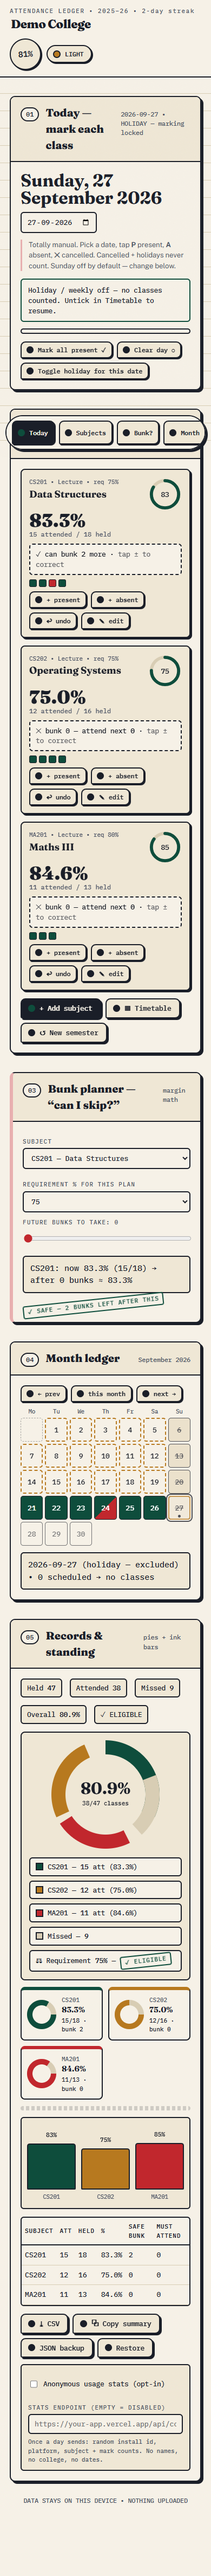
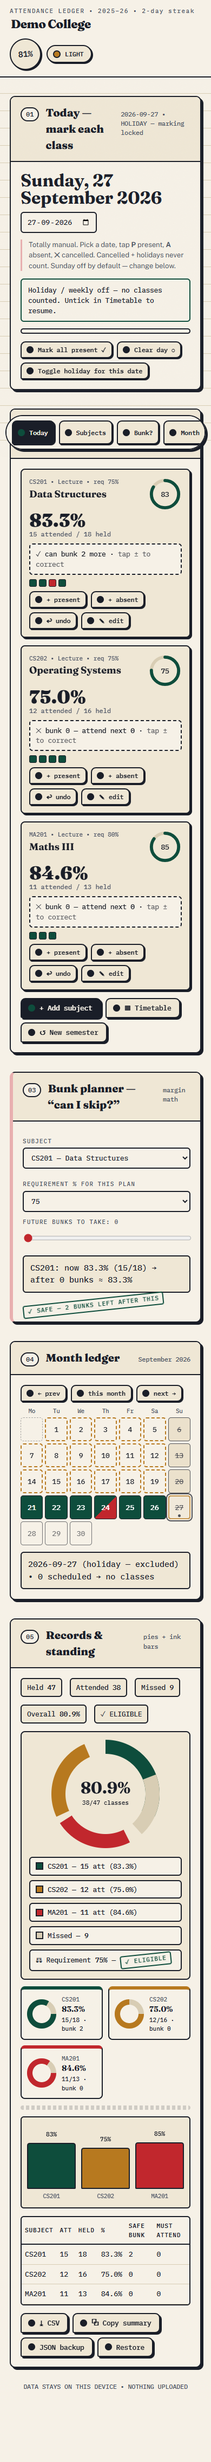
Remove admin system entirely; mono black-white-grey dark theme

Changed region(s): [[0.0308, 0.0, 0.9846, 0.9688], [0.0308, 0.5, 0.0615, 0.5625], [0.8923, 0.25, 0.9231, 0.2812]]

diff --git a/index.html b/index.html
@@ -20,10 +20,10 @@
   --radius:10px;
 }
 [data-theme="dark"]{
-  --paper:#0E1015; --paper-2:#151923; --paper-3:#1D2331;
-  --ink:#ECE5D3; --ink-soft:#A7AEC4; --rule:#2A2F3D;
-  --accent:#5FBF8F; --accent-ink:#08130E;
-  --stamp-red:#E08080; --amber:#D9A93B; --margin-red:#6B3A3A;
+  --paper:#0B0C0E; --paper-2:#141619; --paper-3:#1E2126;
+  --ink:#F2F0EA; --ink-soft:#A9ADB5; --rule:#262A31;
+  --accent:#EDE9DE; --accent-ink:#101216;
+  --stamp-red:#7C828B; --amber:#C2C6CD; --margin-red:#3A3D43;
   --shadow:none;
   --shadow-sm:none;
 }
@@ -375,14 +375,6 @@ table.ledger td{border-bottom:1px solid var(--rule); padding:8px 6px; font-famil
         <button class="btn" id="restoreBtn">Restore</button>
         <input type="file" id="restoreFile" accept="application/json" hidden>
       </div>
-      <div class="proj" style="margin-top:12px">
-        <label class="mono" style="display:flex;gap:8px;align-items:center;font-size:12.5px;cursor:pointer">
-          <input type="checkbox" id="teleOn" style="width:auto;min-height:44px"> Anonymous usage stats (opt-in)
-        </label>
-        <label class="lbl" for="teleUrl">Stats endpoint (empty = disabled)</label>
-        <input type="text" id="teleUrl" placeholder="https://your-app.vercel.app/api/collect" inputmode="url" autocomplete="off">
-        <div class="mono" style="font-size:11px;color:var(--ink-soft);margin-top:6px">Once a day sends: random install id, platform, subject + mark counts. No names, no college, no dates.</div>
-      </div>
     </div>
   </section>
 
@@ -452,7 +444,7 @@ const parseISO=s=>{const[a,b,c]=String(s||"").split("-").map(Number);return new 
 const fmtD=d=>d.toLocaleDateString("en-IN",{weekday:"long",day:"numeric",month:"long",year:"numeric"});
 const esc=s=>String(s==null?"":s).replace(/[&<>"']/g,c=>({"&":"&amp;","<":"&lt;",">":"&gt;",'"':"&quot;","'":"&#39;"}[c]));
 const csvCell=v=>{let s=String(v==null?"":v);if(/^\s*[=+\-@]/.test(s))s="'"+s;return /[",\n\r]/.test(s)?'"'+s.replace(/"/g,'""')+'"':s};
-function defState(){return{college:"My College",target:75,theme:"light",subjects:[],timetable:{MON:[],TUE:[],WED:[],THU:[],FRI:[],SAT:[],SUN:[]},off:[0],holidays:[],logs:{},undoStack:[],telemetry:{on:false,url:"",id:uid(),last:""},calCursor:iso(new Date()),selectedDate:iso(new Date())}}
+function defState(){return{college:"My College",target:75,theme:"light",subjects:[],timetable:{MON:[],TUE:[],WED:[],THU:[],FRI:[],SAT:[],SUN:[]},off:[0],holidays:[],logs:{},undoStack:[],calCursor:iso(new Date()),selectedDate:iso(new Date())}}
 let S;
 const hadStored=(()=>{try{return !!localStorage.getItem(KEY)}catch{return true}})();
 try{S=JSON.parse(localStorage.getItem(KEY))||defState()}catch{S=defState()}
@@ -515,10 +507,6 @@ function validateState(){
   });
   if(!Array.isArray(S.undoStack)) S.undoStack=[];
   S.undoStack=S.undoStack.filter(e=>e&&typeof e==="object"&&subj(e.sub)&&["p","a"].includes(e.op)).slice(-200);
-  if(!S.telemetry||typeof S.telemetry!=="object") S.telemetry={on:false,url:"",id:uid(),last:""};
-  S.telemetry.on=!!S.telemetry.on;
-  if(typeof S.telemetry.url!=="string") S.telemetry.url="";
-  if(typeof S.telemetry.id!=="string"||!/^[A-Za-z0-9_-]{1,64}$/.test(S.telemetry.id)) S.telemetry.id=uid();
   if(typeof S.college!=="string") S.college="My College";
   const dflt=iso(new Date());
   if(!/^\d{4}-\d{2}-\d{2}$/.test(S.calCursor||"")) S.calCursor=dflt;
@@ -762,7 +750,9 @@ function showDay(ds){
 }
 /* ---------- STATS ---------- */
 const PALETTE=["#0E4D3C","#B7791F","#C1272D","#2F5D9A","#7A4E9E","#0E7C7B","#A85B2A","#5B6B7A"];
-const colorFor=i=>PALETTE[i%PALETTE.length];
+const MONO=["#EDE9DE","#C2C6CD","#9BA0A8","#8F959E","#7C828B","#5F646C","#484D55","#34383F"];
+const isDark=()=>document.documentElement.dataset.theme==="dark";
+const colorFor=i=>(isDark()?MONO:PALETTE)[i%8];
 function donutSVG(pct,size,thick,color){
   const r=(size-thick)/2, C=2*Math.PI*r;
   const off=C*(1-Math.min(100,Math.max(0,pct))/100);
@@ -811,26 +801,10 @@ function renderStats(){
     return `<tr><td>${esc(s.code)}</td><td>${st.pre}</td><td>${st.tot}</td><td>${st.pct.toFixed(1)}%</td><td>${st.safe}</td><td>${fmtNeed(st.need)}</td></tr>`}).join("");
 }
 function renderAll(){
-  // NOTE: callers save() before renderAll(); no save here (was double-stringifying ~600KB per tap)
   document.documentElement.dataset.theme=S.theme||"light";
   const tb=$("themeBtn"); if(tb) tb.textContent=(S.theme==="dark"?"DARK":"LIGHT");
-  renderToday();renderSubjects();renderPlanner();renderCal();renderStats();
+  save();renderToday();renderSubjects();renderPlanner();renderCal();renderStats();
   $("collegeInput").value=S.college||"My College";
-  if($("teleOn")) $("teleOn").checked=!!(S.telemetry&&S.telemetry.on);
-  if($("teleUrl")) $("teleUrl").value=(S.telemetry&&S.telemetry.url)||"";
-  ping();
-}
-function ping(){
-  // opt-in anonymous heartbeat, at most once a day, never blocks UI
-  try{
-    const t=S.telemetry; if(!t||!t.on||!t.url) return;
-    const today=iso(new Date()); if(t.last===today) return;
-    t.last=today; save();
-    const ua=navigator.userAgent||"";
-    fetch(t.url,{method:"POST",headers:{"Content-Type":"application/json"},
-      body:JSON.stringify({id:t.id,platform:/Android/i.test(ua)?"android":"web",v:1,
-        subjects:S.subjects.length,marks:Object.keys(S.logs).length,theme:S.theme||"light"})}).catch(()=>{});
-  }catch(e){/* telemetry must never break the app */}
 }
 /* ---------- EVENTS ---------- */
 $("datePicker").onchange=e=>{S.selectedDate=e.target.value||iso(new Date());S.calCursor=S.selectedDate.slice(0,7)+"-01";save();renderAll()};
@@ -840,8 +814,6 @@ $("holidayBtn").onclick=()=>{const d=S.selectedDate;const ix=S.holidays.indexOf(
 $("themeBtn").onclick=()=>{S.theme=document.documentElement.dataset.theme==="dark"?"light":"dark";save();renderAll()};
 let collegeT=null;
 $("collegeInput").oninput=e=>{S.college=e.target.value;clearTimeout(collegeT);collegeT=setTimeout(save,300)};
-$("teleOn").onchange=e=>{S.telemetry.on=e.target.checked;save();ping()};
-$("teleUrl").onchange=e=>{S.telemetry.url=e.target.value.trim();save();ping()};
 $("planRange").oninput=renderPlanner;
 $("planSubject").onchange=renderPlanner;
 $("planTarget").onchange=renderPlanner;

diff --git a/README.md b/README.md
@@ -44,23 +44,6 @@ npx vercel --prod
 
 **Android:** wrap `index.html` in the WebView shell (see commit history / `MainActivity` pattern: `file:///android_asset`, DOM storage on) and `assembleDebug`.
 
-## Scale — ready for 1k–10k users
-
-- **Reads scale free:** pure static file on Vercel's CDN. 10k users × ~70KB = ~700MB transfer — far inside free limits.
-- **Writes stay on-device:** no shared database in the hot path, so concurrent users can't slow each other down. Worst case measured in headless Chrome (mobile viewport, 10,290 marks): full re-render **~157ms**, store 644KB — a real 4-year degree is <2k marks (<30ms).
-- **Attack-tested:** 31-case battery (`tools/attack.js` in the build machine) covers stored-XSS payloads, malicious restores (`null`, prototype pollution, 20k-log dumps), CSV formula injection, fake dates, future-mark inflation — all passing against the real code.
-
-## Admin stats (opt-in)
-
-The app is offline-first, so global stats need a tiny backend. Included, zero new dependencies:
-
-1. Create a free [Supabase](https://supabase.com) project → SQL editor → run `schema.sql`.
-2. Vercel dashboard → this project → Environment Variables: `SUPABASE_URL`, `SUPABASE_SERVICE_KEY`, `ADMIN_TOKEN` (any long random string) → redeploy.
-3. Open `admin.html` (deployed alongside the app), paste the stats URL + token → installs, active 7d/30d, platform split, recent table.
-4. Each user opts in once: Records → *Anonymous usage stats* → tick + endpoint `https://<your-app>.vercel.app/api/collect`.
-
-What leaves the device (once a day, only if the user opts in): random install id, platform, subject/mark counts. No names, no colleges, no dates — the admin IDs are truncated to 8 chars and there is no personal data to leak.
-
 ## Project structure
 
 ```
